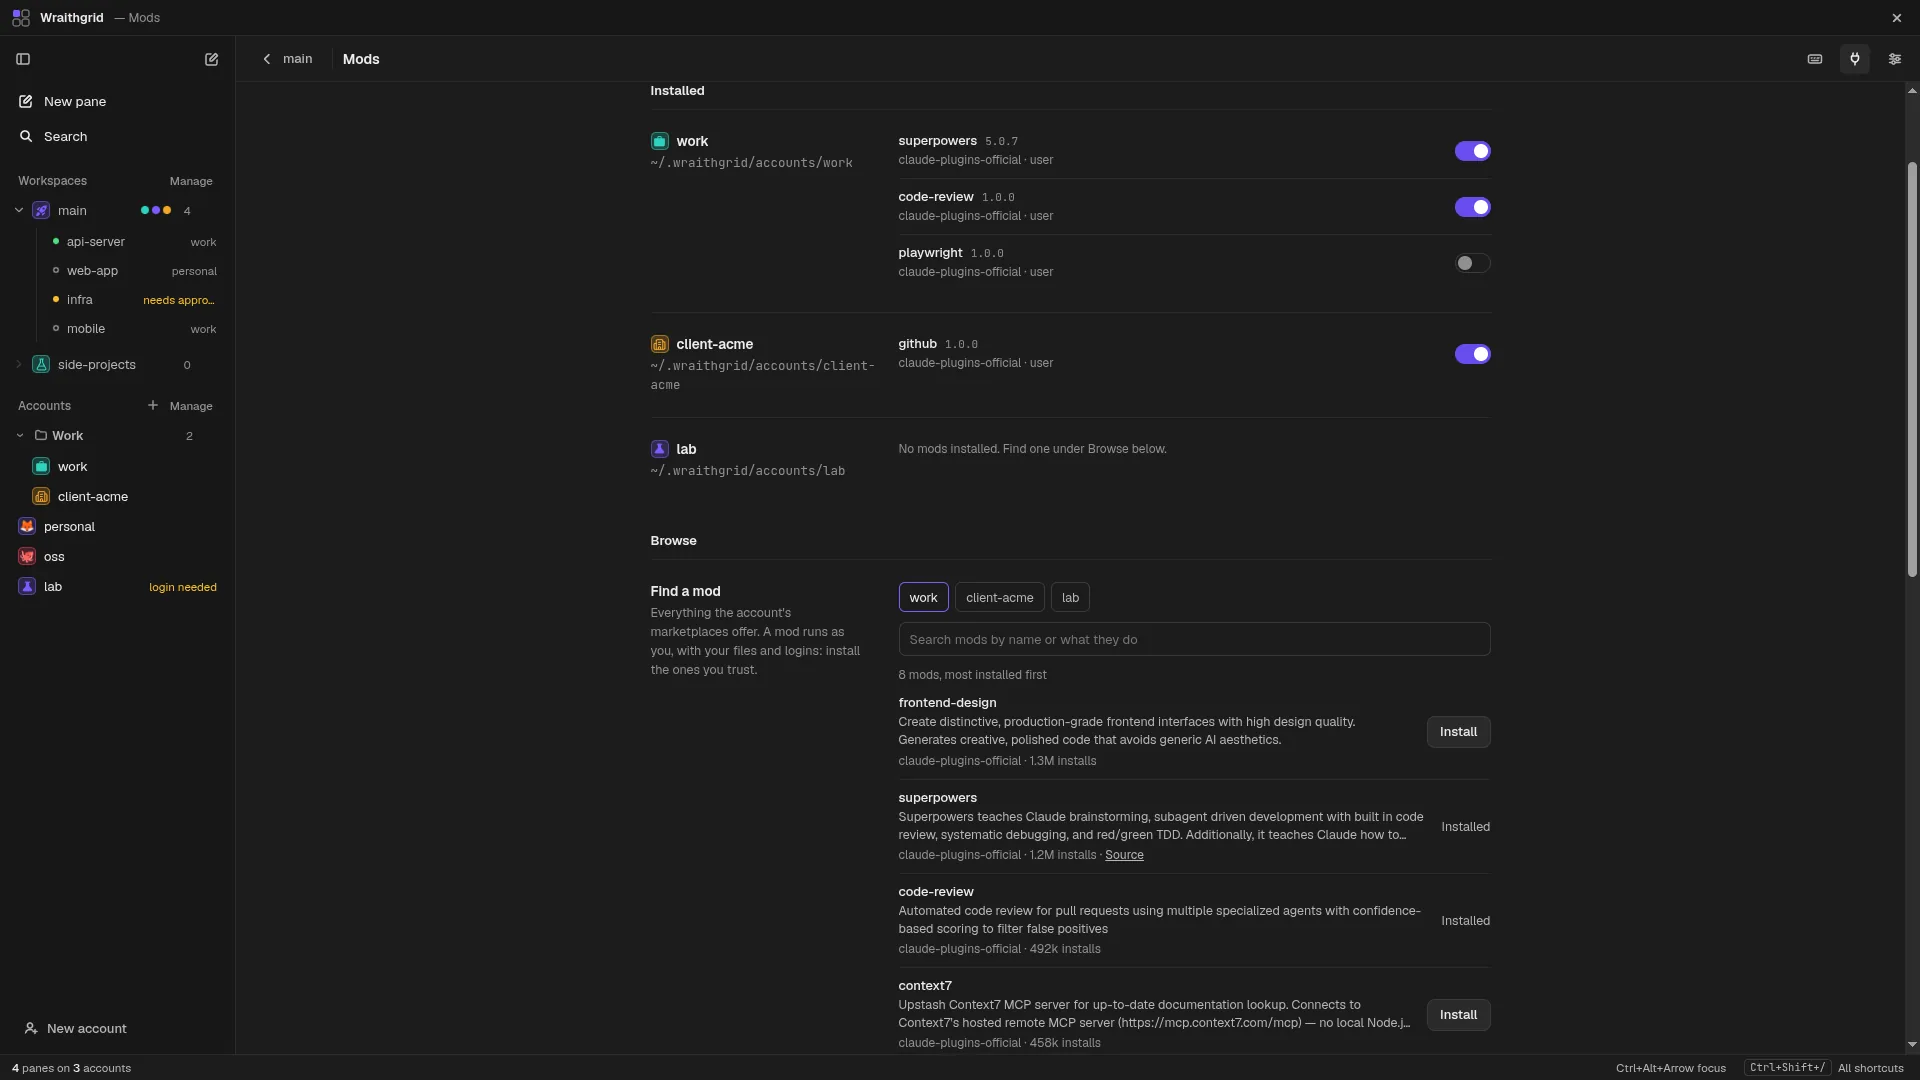
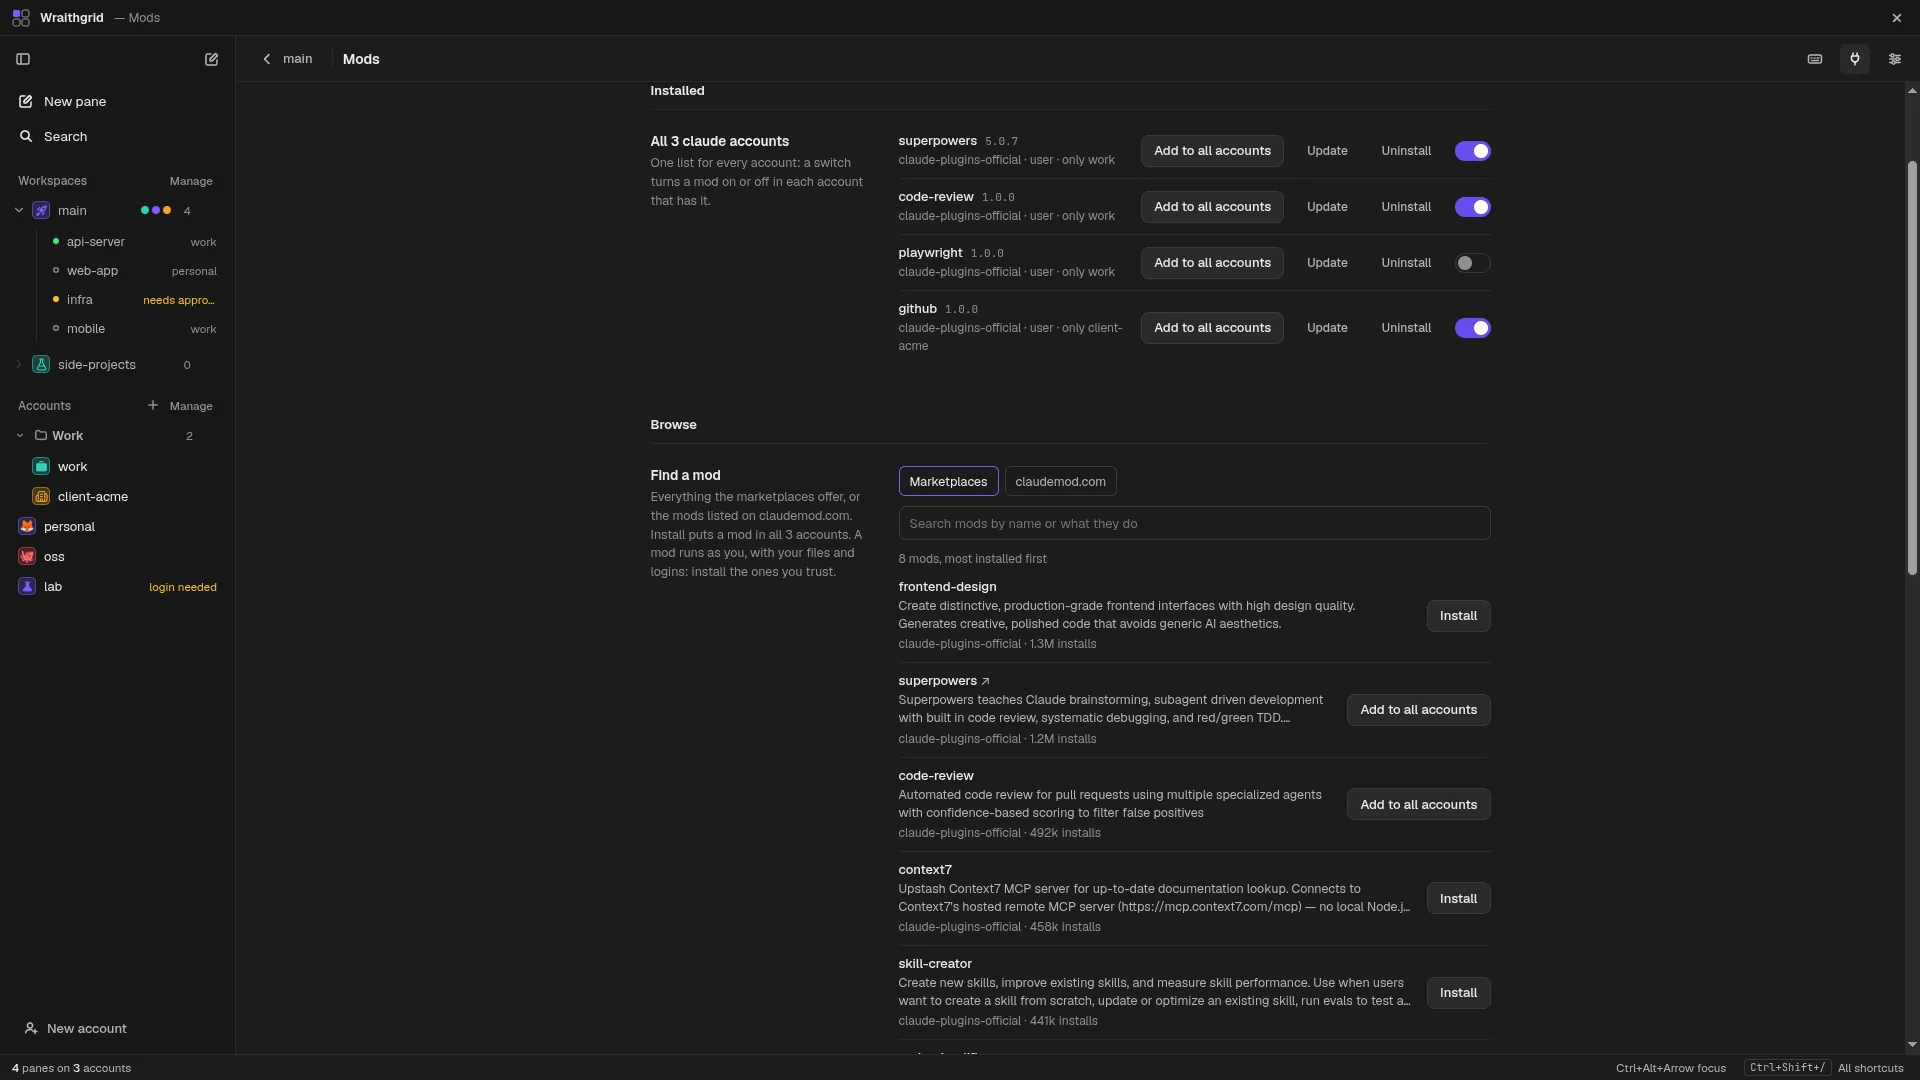
feat(site): update for wraithgrid v1.9
Wraithgrid 1.9 runs seven agent CLIs, continues prompted panes'
conversations after a restart, adds a "done" status, commit/push/pull
request in the Changes panel, worktree cleanup, more mod actions,
configurable shortcuts and a one-line installer. The page now says so:
the hero line and lede, six reworked features (still twelve, so the grids
keep full rows: "Updates in place" became "Pick up where you left off",
with the update fact kept), FAQ answers on logins per CLI, resume and
shortcuts, an install-script block under Install, and the CLI list in
HowItWorks, JSON-LD, llms.txt and the meta tags.

Login isolation is described as the app's docs state it: Codex, Cursor
and Copilot may share the keyring sign-in; agy and opencode share one.

Screenshots are retaken from the 1.9 build: the Changes panel shows the
commit footer and the Mods screen the Update / Uninstall buttons.

diff --git a/src/content.ts b/src/content.ts
@@ -20,12 +20,12 @@ export const GALLERY: readonly Shot[] = [
   {
     name: 'mods',
     title: 'Mods',
-    alt: 'The Mods screen: the mods each claude account has installed, with a switch to turn each on or off, and below them a searchable catalog of the marketplace with install counts and an Install button per mod.',
+    alt: 'The Mods screen: the mods the claude accounts have installed as one list, each with Add to all accounts, Update, Uninstall and an on/off switch, and below them a searchable catalog of the marketplace with install counts and an Install button per mod.',
   },
   {
     name: 'diff',
     title: 'Changes',
-    alt: 'The Changes panel open next to the grid, showing the git diff of the api-server pane: package.json and src/routes/auth.ts with added and removed lines, and one untracked test file.',
+    alt: 'The Changes panel open next to the grid, showing the git diff of the api-server pane: package.json and src/routes/auth.ts with added and removed lines, one untracked test file, and below them a commit message box with Commit all, Push and Pull request buttons.',
   },
   {
     name: 'palette',
@@ -61,20 +61,20 @@ export interface Feature {
 
 export const FEATURES: readonly Feature[] = [
   {
-    title: 'Claude, Gemini and Antigravity',
-    body: 'Each account picks the CLI its panes run: Claude Code, Gemini CLI or Antigravity CLI (agy). Mix all three in one grid. Wraithgrid finds them on your PATH.',
+    title: 'Seven agent CLIs',
+    body: 'Each account picks the CLI its panes run: Claude Code, Codex, Gemini CLI, Antigravity, opencode, Cursor Agent or Copilot CLI. Mix them in one grid. Wraithgrid finds them on your PATH, or you set the path.',
   },
   {
     title: 'Logins stay separate',
-    body: 'Every claude and gemini account gets its own config folder, so its login and history never touch another account. agy keeps one sign-in in your system keyring.',
+    body: 'Every account gets its own config folder, so claude and gemini logins and history never touch another account. Codex, Cursor and Copilot may keep the sign-in in your keyring; agy and opencode share one.',
   },
   {
     title: 'Claude mods',
-    body: 'Panes draw what claude mods draw: side panes, a band above the prompt, status lines, toasts. The Mods screen searches the marketplaces, installs with a click and turns mods on or off per account.',
+    body: 'Panes draw what claude mods draw: side panes, a band above the prompt, status lines, toasts. The Mods screen searches the marketplaces, installs, updates and uninstalls for every account, and manages marketplaces.',
   },
   {
     title: 'Git and worktrees',
-    body: 'The pane header shows the branch and how many files changed; click it, or press Ctrl+Shift+D, for the diff. Open a pane on a fresh branch in its own git worktree, so two agents never edit the same files.',
+    body: 'Press Ctrl+Shift+D for a pane’s diff, then commit, push and open a pull request from the same panel. Open a pane on a fresh branch in its own git worktree, and remove it when its last pane closes.',
   },
   {
     title: 'Paste screenshots',
@@ -82,11 +82,11 @@ export const FEATURES: readonly Feature[] = [
   },
   {
     title: 'Know which pane needs you',
-    body: 'Each pane shows running, idle or needs approval. A desktop notification tells you when a pane you aren’t looking at finishes or asks.',
+    body: 'Each pane shows running, needs approval, done or idle. A desktop notification tells you when a pane you aren’t looking at finishes or asks.',
   },
   {
     title: 'Search everything',
-    body: 'Ctrl+Shift+P finds any pane in any workspace, switches workspace, opens an account in a new pane or runs an app command.',
+    body: 'Ctrl+Shift+P finds any pane in any workspace, switches workspace, opens an account in a new pane or runs an app command. Rebind the app shortcuts in Settings.',
   },
   {
     title: 'Workspaces and layouts',
@@ -101,8 +101,8 @@ export const FEATURES: readonly Feature[] = [
     body: 'Plain shell panes run bash, zsh, fish, nushell, PowerShell, Git Bash, WSL or anything you name. Dark or light, five accents, six terminal palettes.',
   },
   {
-    title: 'Updates in place',
-    body: 'You get one notification per new version. Update & restart in Settings installs it and relaunches (on macOS it opens the release page).',
+    title: 'Pick up where you left off',
+    body: 'When Wraithgrid restarts, each pane you prompted continues its last conversation (claude --continue, codex resume --last). Updates install from Settings with Update & restart.',
   },
   {
     title: 'Nothing leaves your machine',
@@ -161,19 +161,27 @@ export interface Faq {
 export const FAQS: readonly Faq[] = [
   {
     q: 'Is Wraithgrid official?',
-    a: 'No. It is an independent open-source project, not affiliated with Anthropic or Google. It runs the official claude, gemini and agy CLIs unchanged.',
+    a: 'No. It is an independent open-source project, not affiliated with Anthropic, Google, OpenAI, GitHub or Cursor. It runs the official agent CLIs unchanged.',
   },
   {
     q: 'Does it see my login or my code?',
-    a: 'No. For each pane it sets CLAUDE_CONFIG_DIR (claude) or GEMINI_CLI_HOME (gemini) to that account’s folder and starts the CLI. It never reads, copies or proxies anything inside those folders.',
+    a: 'No. For each pane it points the CLI at that account’s folder through the CLI’s own variable (CLAUDE_CONFIG_DIR, GEMINI_CLI_HOME, CODEX_HOME, CURSOR_CONFIG_DIR or COPILOT_HOME) and starts it. It never reads, copies or proxies anything inside those folders.',
   },
   {
-    q: 'Can two Antigravity accounts use different Google logins?',
-    a: 'Not on one computer. agy keeps its sign-in in the system keyring, so every Antigravity account shares it. That is a limit of agy itself. Claude and Gemini accounts each keep their own login.',
+    q: 'Does every CLI keep a separate login per account?',
+    a: 'Claude and Gemini accounts do. Antigravity and opencode have no per-account folder, so their accounts share one login on a computer. Codex, Cursor and Copilot keep settings and history per account, but may keep the sign-in in the system keyring, and then their accounts share it too.',
   },
   {
     q: 'Does it work with claude mods?',
-    a: 'Yes, since v1.7. Mods run inside each claude pane, and the Mods screen lists what every account has installed, lets you search and install from the account’s marketplaces, and loads a mod folder you are building into every pane. Wraithgrid asks the account’s own claude for all of it. Pictures a mod draws show as their text description.',
+    a: 'Yes, since v1.7. Mods run inside each claude pane, and the Mods screen lists what every account has installed, lets you search, install, update and uninstall for every account, manages marketplaces, and loads a mod folder you are building into every pane. Wraithgrid asks the account’s own claude for all of it. Pictures a mod draws show as their text description.',
+  },
+  {
+    q: 'Do my conversations survive a restart?',
+    a: 'Yes, since v1.9. A pane you sent a prompt to starts with its CLI’s continue option when Wraithgrid opens again, so the conversation goes on. Turn it off per pane by right-clicking its header. Running agents still stop when Wraithgrid quits.',
+  },
+  {
+    q: 'Can I change the keyboard shortcuts?',
+    a: 'Yes, since v1.9: Settings → Keyboard shortcuts rebinds search, new pane, close pane, zoom, the git diff and the shortcuts sheet. A new shortcut needs Ctrl (⌘ on macOS) with Shift or Alt, so the terminal keeps its own keys.',
   },
   {
     q: 'Does it run on macOS?',
@@ -249,3 +257,7 @@ export function installFile(tab: InstallTab, release: Release | null): string {
 }
 
 export const VERIFY_COMMAND = 'sha256sum -c SHA256SUMS.txt --ignore-missing'
+
+/** scripts/install.sh in the app repo (since v1.9): picks the package, checks SHA256SUMS. */
+export const INSTALL_SCRIPT =
+  'curl -fsSL https://raw.githubusercontent.com/cachewraith/wraithgrid/main/scripts/install.sh | sh'

diff --git a/index.html b/index.html
@@ -7,10 +7,10 @@
       content="default-src 'self'; connect-src 'self' https://api.github.com; img-src 'self' data:; style-src 'self'; script-src 'self'; object-src 'none'; base-uri 'none'; form-action 'none'"
     />
     <meta name="viewport" content="width=device-width, initial-scale=1" />
-    <title>Wraithgrid: Claude Code, Gemini and Antigravity side by side</title>
+    <title>Wraithgrid: Claude Code, Codex, Gemini and more, side by side</title>
     <meta
       name="description"
-      content="Run many Claude Code, Gemini CLI and Antigravity sessions side by side, each with its own account and project folder. A free, open-source desktop app for Windows, macOS and Linux."
+      content="Run many Claude Code, Codex, Gemini CLI, Copilot and other agent sessions side by side, each with its own account and project folder. A free, open-source desktop app for Windows, macOS and Linux."
     />
     <meta name="robots" content="index, follow, max-image-preview:large, max-snippet:-1" />
     <meta name="author" content="cachewraith" />
@@ -29,11 +29,11 @@
     <meta property="og:locale" content="en_US" />
     <meta
       property="og:title"
-      content="Wraithgrid: Claude Code, Gemini and Antigravity side by side"
+      content="Wraithgrid: Claude Code, Codex, Gemini and more, side by side"
     />
     <meta
       property="og:description"
-      content="Run many Claude Code, Gemini CLI and Antigravity sessions side by side, each with its own account and project folder."
+      content="Run many Claude Code, Codex, Gemini CLI, Copilot and other agent sessions side by side, each with its own account and project folder."
     />
     <meta property="og:url" content="%SITE_URL%" />
     <meta property="og:image" content="%SITE_URL%screenshots/grid-dark.png" />
@@ -46,11 +46,11 @@
     <meta name="twitter:card" content="summary_large_image" />
     <meta
       name="twitter:title"
-      content="Wraithgrid: Claude Code, Gemini and Antigravity side by side"
+      content="Wraithgrid: Claude Code, Codex, Gemini and more, side by side"
     />
     <meta
       name="twitter:description"
-      content="Run many Claude Code, Gemini CLI and Antigravity sessions side by side, each with its own account and project folder."
+      content="Run many Claude Code, Codex, Gemini CLI, Copilot and other agent sessions side by side, each with its own account and project folder."
     />
     <meta name="twitter:image" content="%SITE_URL%screenshots/grid-dark.png" />
     <meta
@@ -66,8 +66,8 @@
     <div id="root"></div>
     <noscript>
       <p class="noscript">
-        Wraithgrid runs many Claude Code, Gemini CLI and Antigravity sessions side by side, each
-        with its own account and project folder.
+        Wraithgrid runs many Claude Code, Codex, Gemini CLI and other agent sessions side by side,
+        each with its own account and project folder.
         <a href="https://github.com/cachewraith/wraithgrid/releases/latest">Download it on GitHub</a
         >.
       </p>

diff --git a/src/lib/seo.ts b/src/lib/seo.ts
@@ -16,7 +16,7 @@ import { REPO_URL, RELEASES_URL } from './release'
 
 export const SITE_NAME = 'Wraithgrid'
 export const SUMMARY =
-  'Wraithgrid is a free, open-source desktop app for running many Claude Code, Gemini CLI and Antigravity CLI sessions side by side, each with its own account, project folder and git branch. It runs on Windows, macOS and Linux.'
+  'Wraithgrid is a free, open-source desktop app for running many Claude Code, Codex, Gemini CLI, Antigravity, opencode, Cursor Agent and Copilot CLI sessions side by side, each with its own account, project folder and git branch. It runs on Windows, macOS and Linux.'
 const AUTHOR = { name: 'cachewraith', url: 'https://github.com/cachewraith' }
 
 /** Crawlers of AI search and assistant products, welcomed by name in robots.txt. */
@@ -57,7 +57,7 @@ export function buildJsonLd(site: string, version: string | null): object {
     downloadUrl: RELEASES_URL,
     installUrl: `${site}install`,
     softwareRequirements:
-      'At least one of: Claude Code (claude), Gemini CLI (gemini), Antigravity CLI (agy)',
+      'At least one of: Claude Code (claude), Codex (codex), Gemini CLI (gemini), Antigravity CLI (agy), opencode, Cursor Agent (cursor-agent), Copilot CLI (copilot)',
     featureList: FEATURES.map((f) => `${f.title}: ${f.body}`),
     screenshot: [
       {
@@ -140,7 +140,11 @@ export function buildLlmsTxt(site: string, version: string | null): string {
     '',
     '- Claude Code: `CLAUDE_CONFIG_DIR=~/.wraithgrid/accounts/<account> claude`',
     '- Gemini CLI: `GEMINI_CLI_HOME=~/.wraithgrid/accounts/<account> gemini`',
-    '- Antigravity CLI: `agy`, which keeps its sign-in in the system keyring, so all Antigravity accounts on one computer share one Google login.',
+    '- Codex: `CODEX_HOME=~/.wraithgrid/accounts/<account> codex`',
+    '- Cursor Agent: `CURSOR_CONFIG_DIR=~/.wraithgrid/accounts/<account> cursor-agent`',
+    '- Copilot CLI: `COPILOT_HOME=~/.wraithgrid/accounts/<account> copilot`',
+    '- Codex, Cursor and Copilot may keep the sign-in in the system keyring, so their accounts can share one login.',
+    '- Antigravity CLI (`agy`) and opencode have no per-account folder: all their accounts on one computer share one login.',
     '',
     'It never reads, copies or proxies anything inside those folders, and it has no telemetry.',
     '',

diff --git a/src/components/Install.tsx b/src/components/Install.tsx
@@ -1,5 +1,11 @@
 import { useRef, useState, type KeyboardEvent } from 'react'
-import { INSTALL_TABS, VERIFY_COMMAND, installFile, type InstallTab } from '../content'
+import {
+  INSTALL_SCRIPT,
+  INSTALL_TABS,
+  VERIFY_COMMAND,
+  installFile,
+  type InstallTab,
+} from '../content'
 import type { OS } from '../lib/os'
 import { RELEASES_URL, downloadHref, type Platform, type Release } from '../lib/release'
 import { CodeBlock } from './CodeBlock'
@@ -73,8 +79,9 @@ function Panel({ tab, release }: { tab: InstallTab; release: Release | null }) {
         <WindowsNote file={file} />
       )}
       <p className="install-req">
-        {tab.requirement} Needs at least one of <code>claude</code>, <code>gemini</code> or{' '}
-        <code>agy</code> installed.
+        {tab.requirement} Needs at least one agent CLI installed: <code>claude</code>,{' '}
+        <code>codex</code>, <code>gemini</code>, <code>agy</code>, <code>opencode</code>,{' '}
+        <code>cursor-agent</code> or <code>copilot</code>.
       </p>
     </>
   )
@@ -150,6 +157,15 @@ export function Install({ os, release }: { os: OS; release: Release | null }) {
               {active === t.id && <Panel tab={t} release={release} />}
             </div>
           ))}
+        </div>
+
+        <div className="verify">
+          <h3>Or in one line</h3>
+          <p>
+            On Linux or macOS, this picks the package for your system, checks it against{' '}
+            <code>SHA256SUMS.txt</code> and installs it:
+          </p>
+          <CodeBlock code={INSTALL_SCRIPT} label="One-line install command" />
         </div>
 
         <div className="verify">

diff --git a/src/components/Hero.tsx b/src/components/Hero.tsx
@@ -46,15 +46,18 @@ export function Hero({ os, release, downloads }: Props) {
           ) : (
             <ExternalLink href={RELEASES_URL}>Latest release</ExternalLink>
           )}
-          <span>Now with a Mods screen: find, install and switch claude mods in the app.</span>
+          <span>
+            New in 1.9: Codex, opencode, Cursor and Copilot panes, and conversations that continue
+            after a restart.
+          </span>
         </p>
         <h1 id="hero-title" data-intro="2">
           Every agent session you run, side by side.
         </h1>
         <p className="lede" data-intro="3">
-          Wraithgrid is a desktop app for running many Claude Code, Gemini CLI and Antigravity
-          sessions at once. Each pane has its own account, its own project folder and its own git
-          branch.
+          Wraithgrid is a desktop app for running many Claude Code, Codex, Gemini CLI and other
+          agent sessions at once. Each pane has its own account, its own project folder and its own
+          git branch.
         </p>
         <div className="cta" data-intro="4">
           <PrimaryDownload os={os} release={release} />

diff --git a/src/components/HowItWorks.tsx b/src/components/HowItWorks.tsx
@@ -34,9 +34,10 @@ export function HowItWorks() {
             ))}
           </div>
           <p>
-            Wraithgrid never reads, copies or proxies anything in those folders. Antigravity CLI
-            keeps its sign-in in the system keyring, so every agy account on one computer shares a
-            single Google login.
+            Codex, Cursor and Copilot get <code>CODEX_HOME</code>, <code>CURSOR_CONFIG_DIR</code> or{' '}
+            <code>COPILOT_HOME</code> the same way. Wraithgrid never reads, copies or proxies
+            anything in those folders. Antigravity and opencode have no per-account folder, so their
+            accounts on one computer share a single login.
           </p>
         </div>
       </div>
